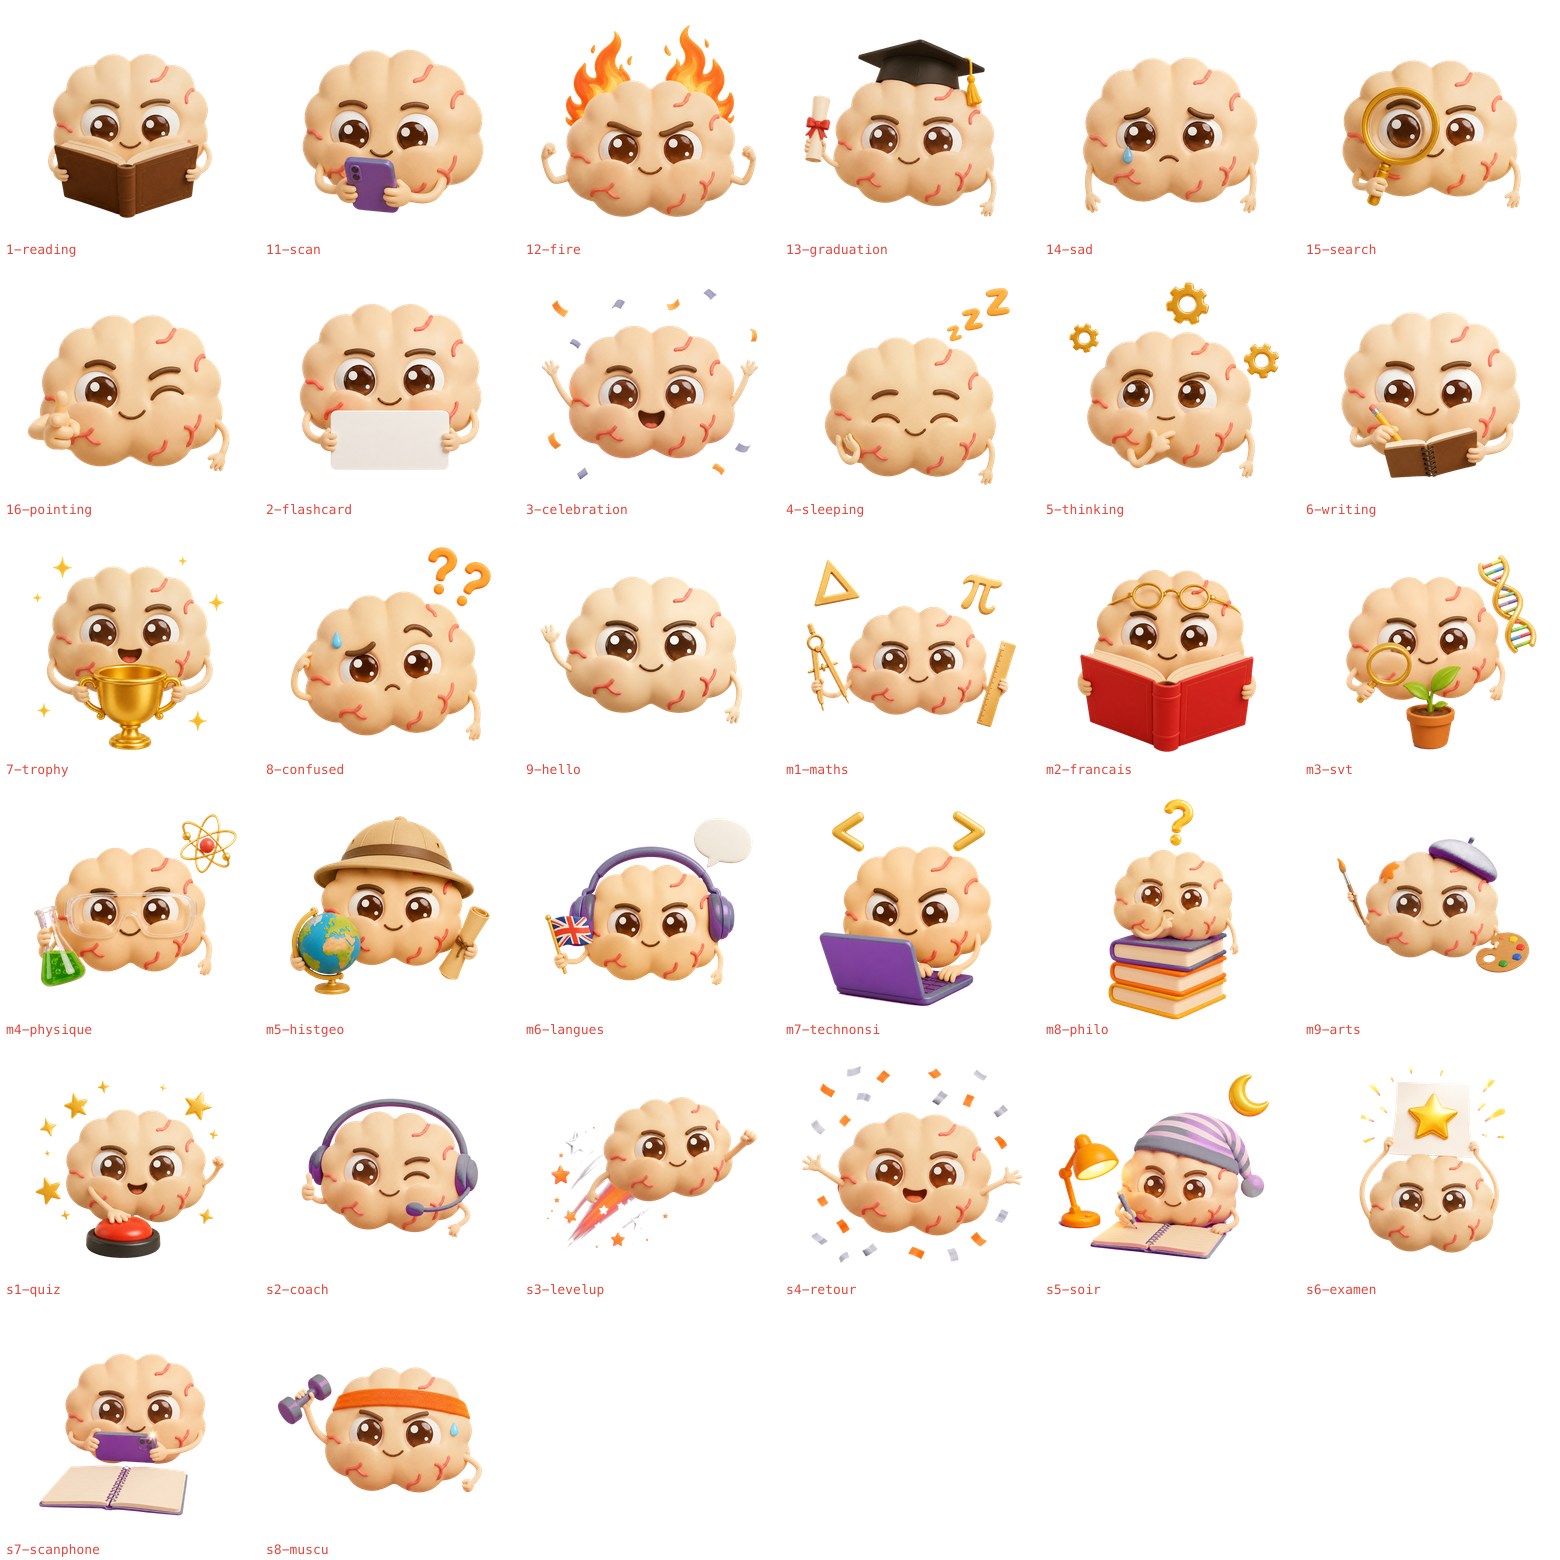
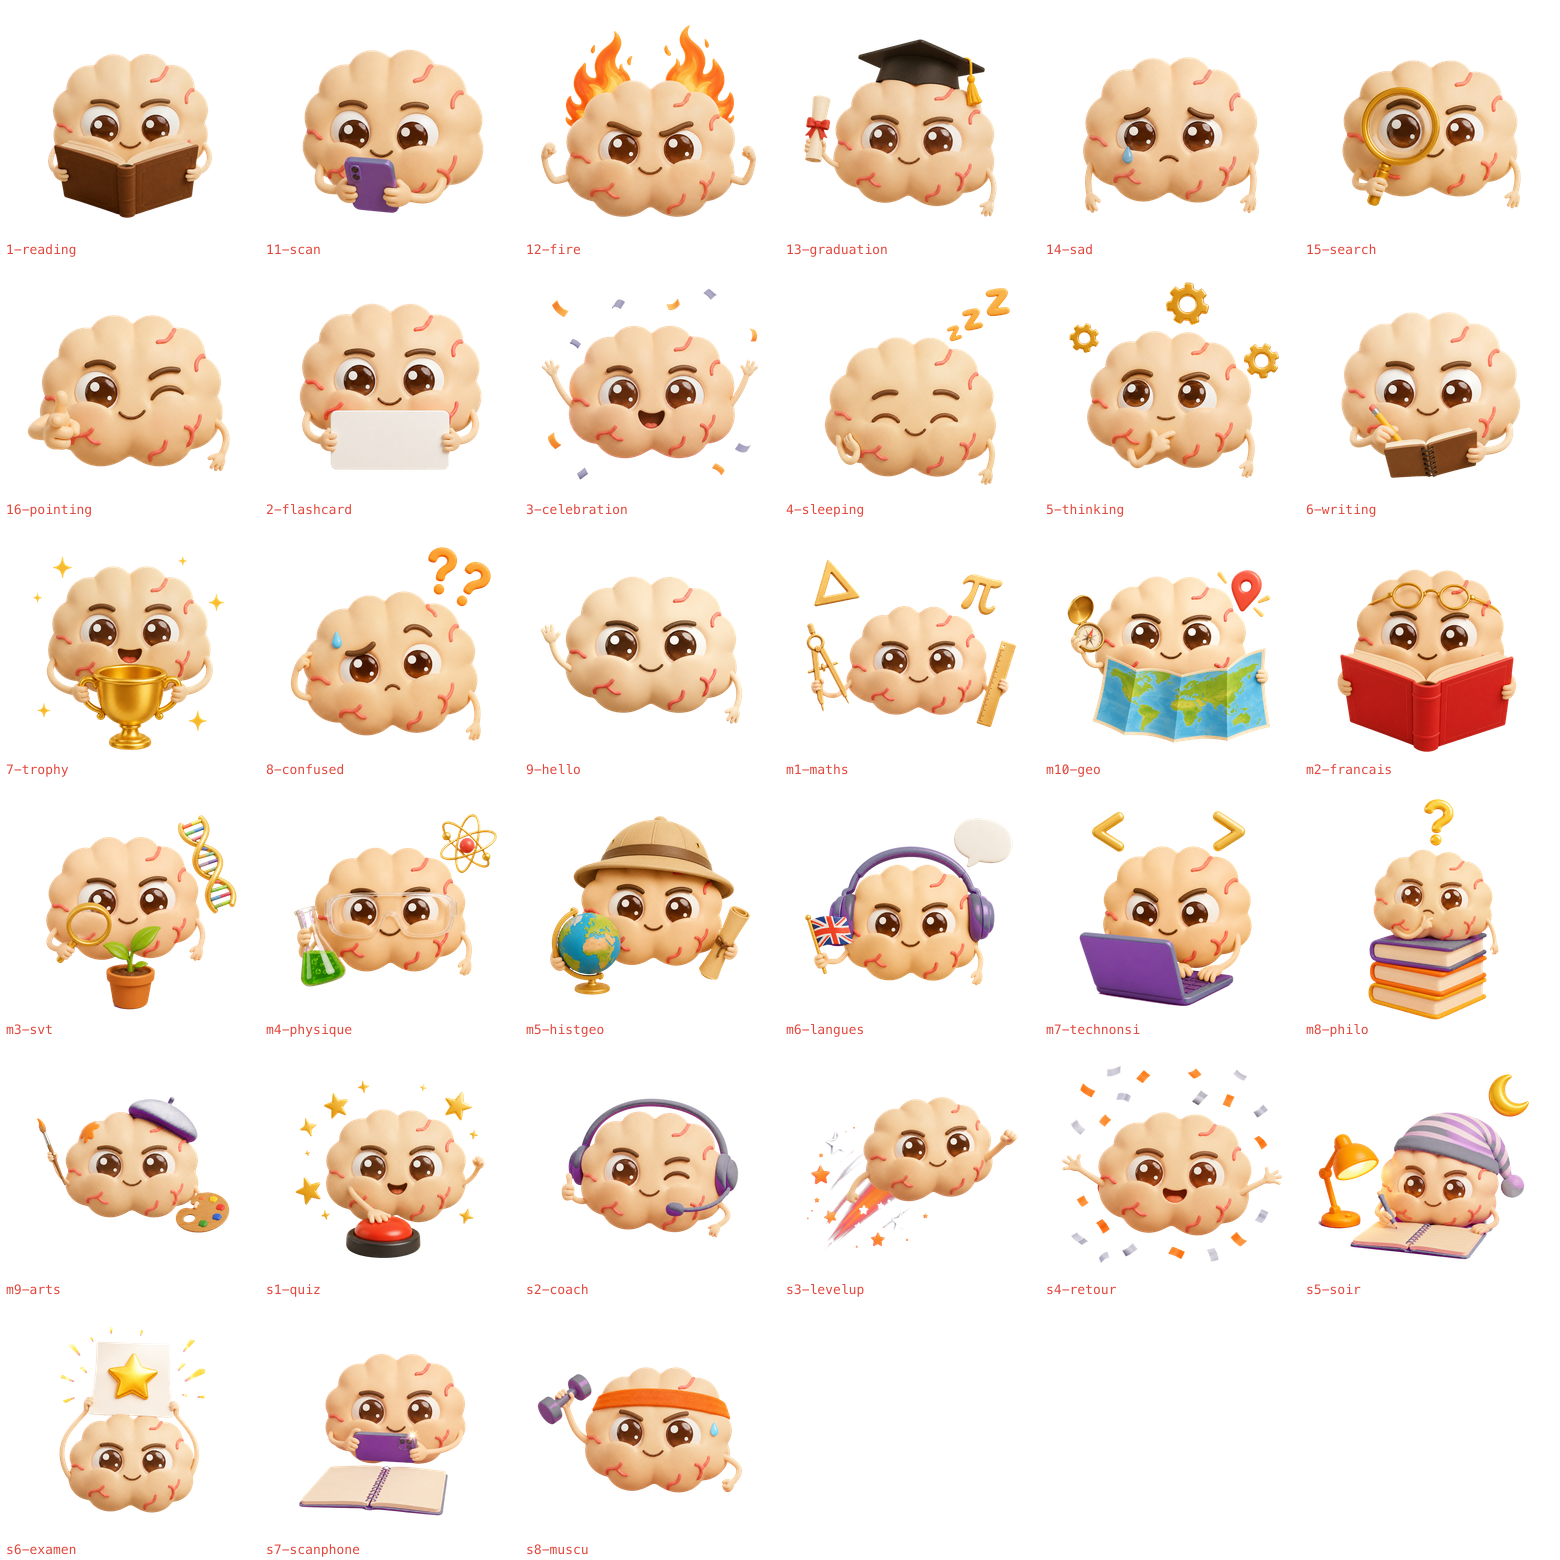
feat(mascottes): une mascotte pour la Géographie
Histoire et Géographie partageaient l'explorateur au globe : côte à côte
dans Mon programme, on ne les distinguait pas. Nouvelle pose m10 « geo »,
le géographe (carte du monde dépliée, boussole, épingle de localisation),
générée avec la référence pose-9-hello comme les autres, détourée par
import-mascots. Histoire, Histoire-Géographie, EMC et HGGSP gardent
l'explorateur.

diff --git a/src/utils/__tests__/programme.test.js b/src/utils/__tests__/programme.test.js
@@ -3,7 +3,8 @@ import {
   slugify, classeSlug, matiereSlug, hasProgramme, chapterLessonId, isProgrammeLessonId,
   catalogueUrl, chapterContentUrl, chapterState, MATIERES_3E, MATIERES_6E, PROGRAMME_CLASSES,
 } from '../programme'
-import { SUBJECT_MAP } from '../subjects'
+import { SUBJECT_MAP, subjectMascot } from '../subjects'
+import { MASCOT_POSES } from '../../components/Mascot'
 
 describe('programme — slugs et chemins', () => {
   it('slugifie sans accents ni espaces', () => {
@@ -39,6 +40,13 @@ describe('programme — classes et matières', () => {
       const key = Object.keys(SUBJECT_MAP).find(k => m.toLowerCase().includes(k))
       expect(key, m).toBeTruthy()
     }
+  })
+
+  it('Histoire et Géographie ont chacune leur mascotte, Histoire-Géographie garde l’explorateur', () => {
+    expect(subjectMascot('Histoire')).toBe('histgeo')
+    expect(subjectMascot('Géographie')).toBe('geo')
+    expect(subjectMascot('Histoire-Géographie')).toBe('histgeo')
+    expect(MASCOT_POSES.geo).toBeTruthy()
   })
 })
 

diff --git a/src/utils/subjects.js b/src/utils/subjects.js
@@ -10,7 +10,7 @@ export const SUBJECT_MAP = {
   'maths':       { color: 'orange', dot: '#FF6B00', bg: '#FFF7ED', emoji: '📐', mascot: 'maths' },
   'français':    { color: 'pink',   dot: '#EC4899', bg: '#FDF2F8', emoji: '📖', mascot: 'francais' },
   'histoire':    { color: 'indigo', dot: '#6366F1', bg: '#EEF2FF', emoji: '🌍', mascot: 'histgeo' },
-  'géo':         { color: 'indigo', dot: '#6366F1', bg: '#EEF2FF', emoji: '🌍', mascot: 'histgeo' },
+  'géo':         { color: 'indigo', dot: '#6366F1', bg: '#EEF2FF', emoji: '🌍', mascot: 'geo' },
   'svt':         { color: 'green',  dot: '#22C55E', bg: '#F0FDF4', emoji: '🧬', mascot: 'svt' },
   'physique':    { color: 'blue',   dot: '#3B82F6', bg: '#EFF6FF', emoji: '⚛', mascot: 'physique' },
   'chimie':      { color: 'blue',   dot: '#3B82F6', bg: '#EFF6FF', emoji: '🧪', mascot: 'physique' },

diff --git a/src/components/Mascot.jsx b/src/components/Mascot.jsx
@@ -31,6 +31,7 @@ export const MASCOT_POSES = {
   technonsi:   { num: 'm7', alt: 'Cerveau codeur sur son laptop' },
   philo:       { num: 'm8', alt: 'Cerveau penseur assis sur ses livres' },
   arts:        { num: 'm9', alt: 'Cerveau artiste avec sa palette' },
+  geo:         { num: 'm10', alt: 'Cerveau géographe avec sa carte et sa boussole' },
 
   // --- Situations (série 2026-08) ---
   quiz:        { num: 's1', alt: 'Cerveau qui appuie sur un buzzer' },

diff --git a/assets-src/mascot/BRIEF-MASCOTTES.md b/assets-src/mascot/BRIEF-MASCOTTES.md
@@ -32,6 +32,7 @@
 | pose-m7-technonsi | laptop ouvert devant lui, symboles « < > » 3D flottants, air concentré |
 | pose-m8-philo | assis en penseur de Rodin sur une pile de livres, point d'interrogation doré flottant |
 | pose-m9-arts | palette de peintre et pinceau, une touche de peinture violette sur un lobe |
+| pose-m10-geo | (2026-10-06) le géographe : grande carte du monde dépliée tenue d'une main, boussole dorée ouverte dans l'autre, épingle de localisation rouge 3D au-dessus de l'épaule. Pas de globe ni de chapeau (c'est histgeo, gardé pour Histoire). Brut recadré avec 70 px de fond magenta par côté : la carte remplissait 94 % de la largeur, contre ~85 % pour les autres matières |
 
 ## Scènes « situations » (gamification, coach, moments de vie)
 
